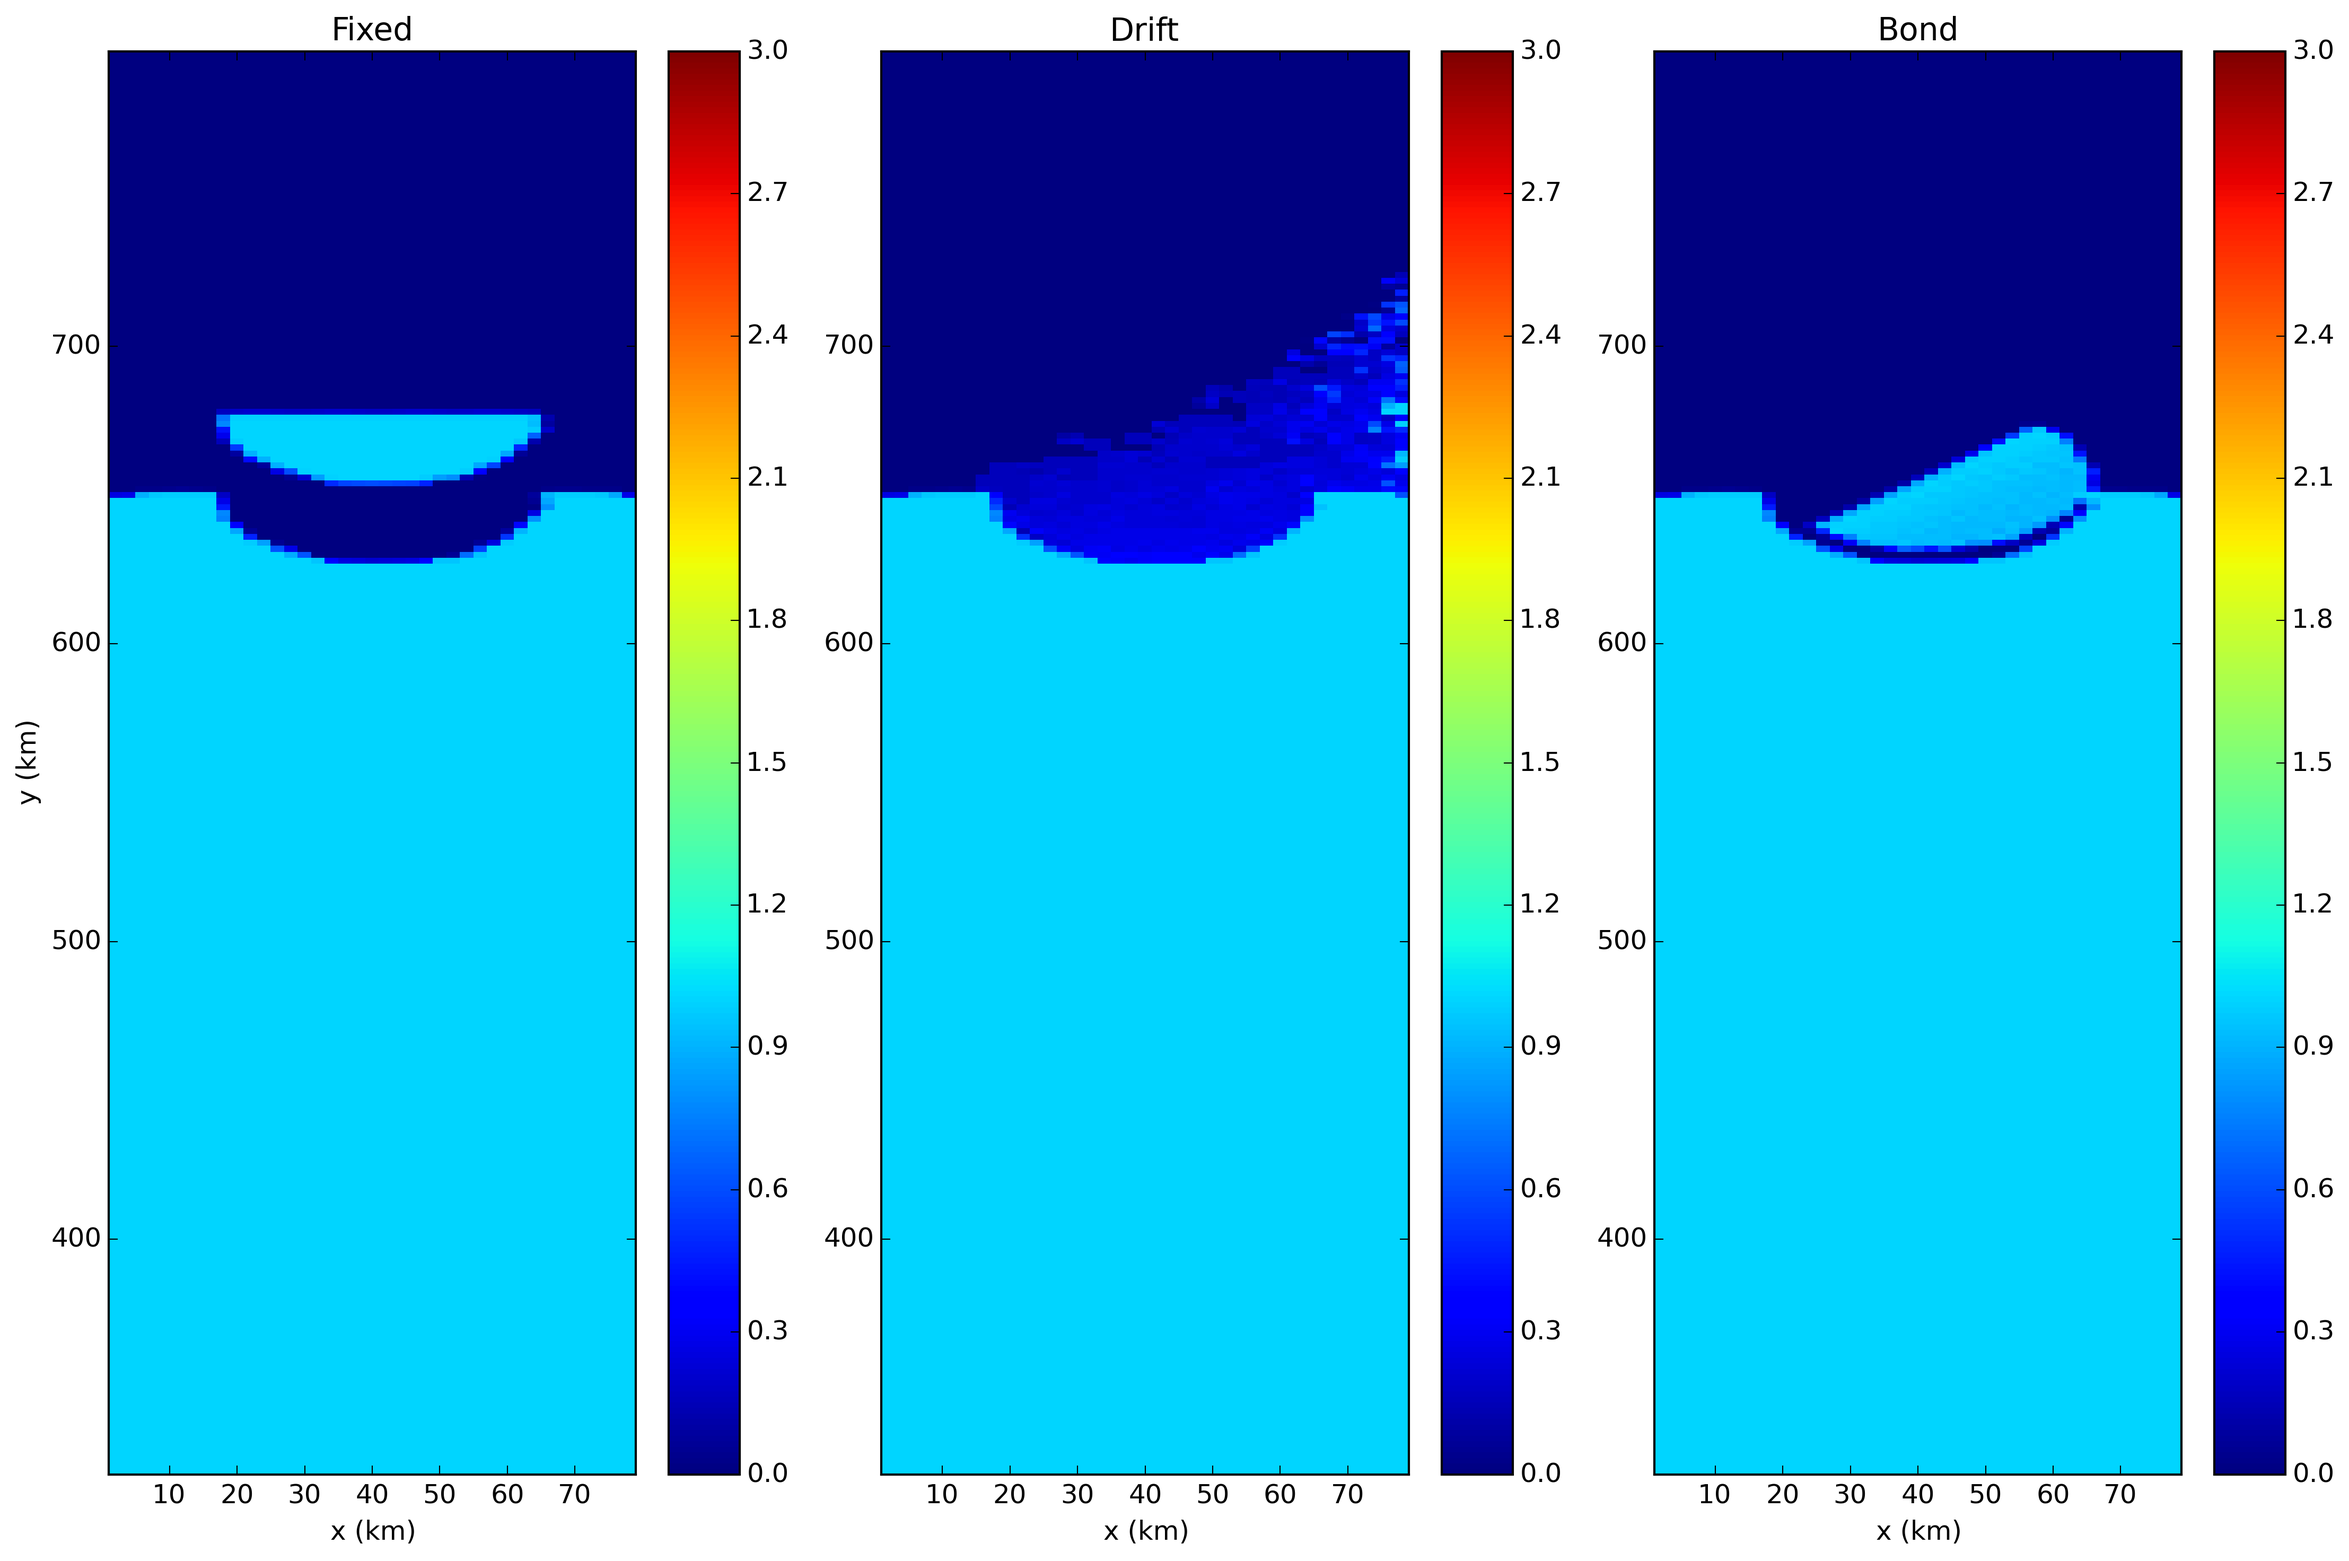
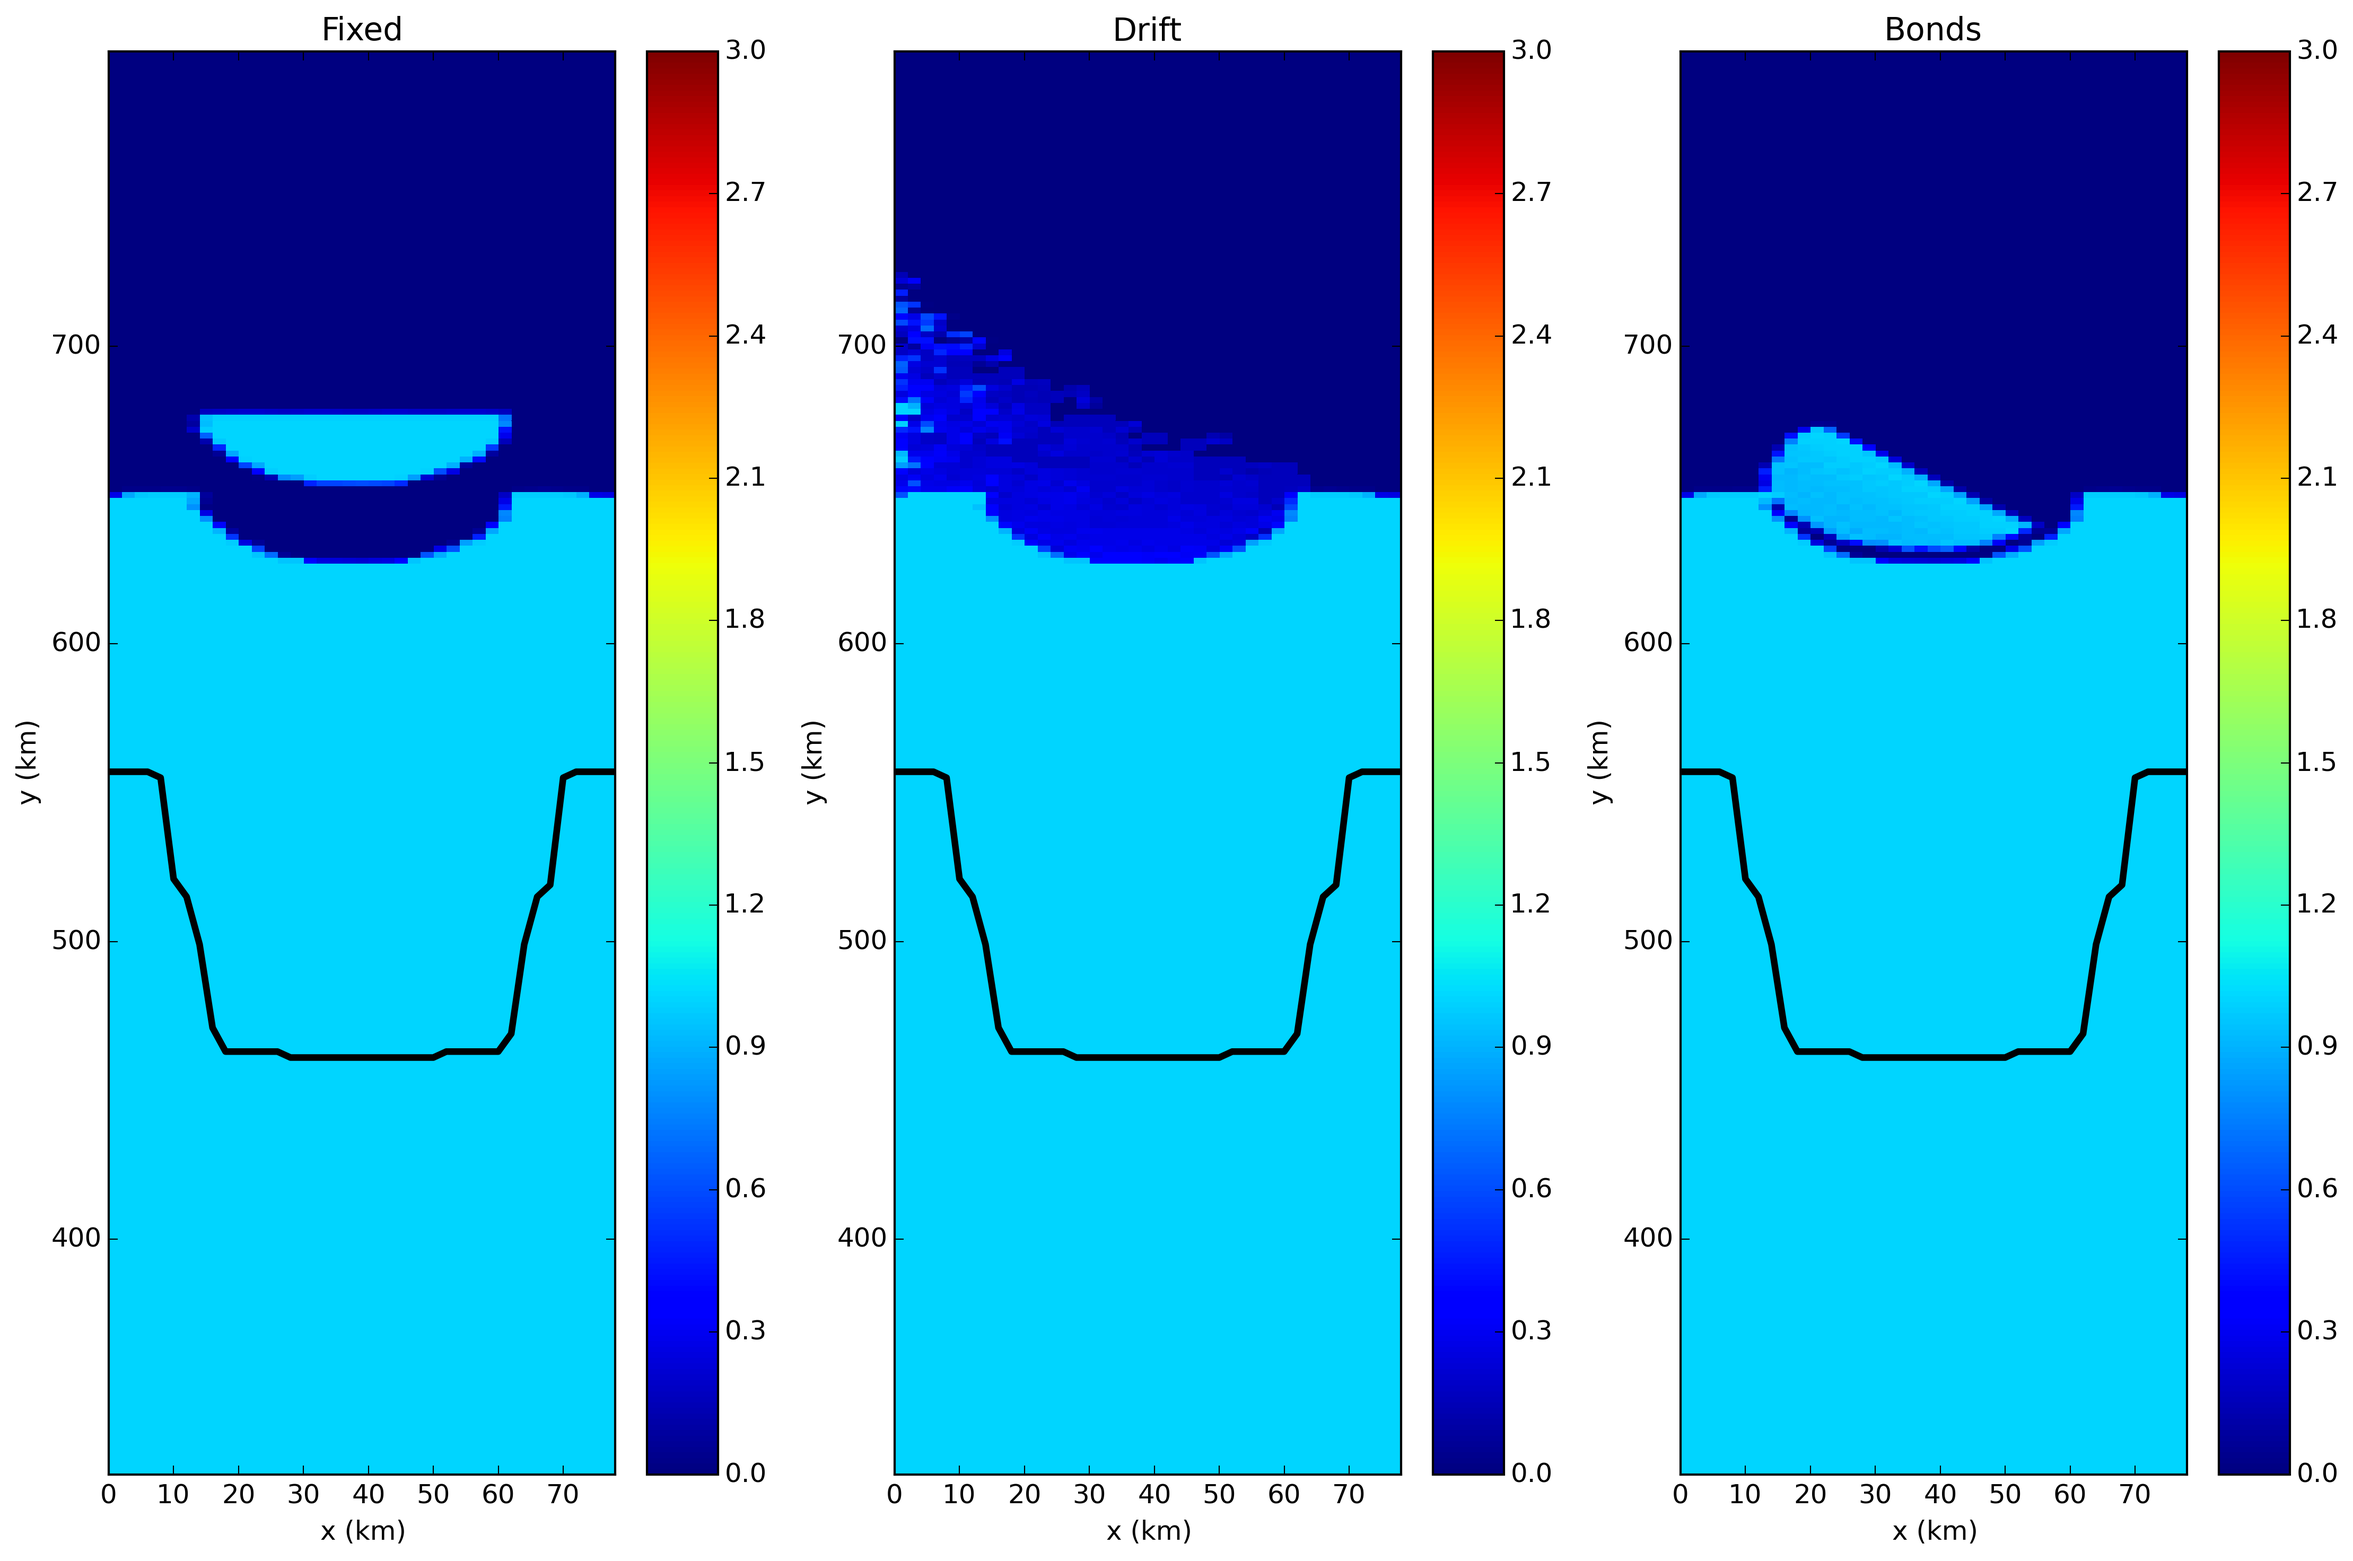
Updated figure. Added grouding line to fix_drift_bond, and make it move to the right

diff --git a/fixed_drift_bond.py b/fixed_drift_bond.py
@@ -32,8 +32,8 @@ def main():
 	rotated=True
 
 	#What to plot?
-	plot_horizontal_field=False
-	plot_temperature_cross_section=True
+	plot_horizontal_field=True
+	plot_temperature_cross_section=False
 
 
 	if (plot_horizontal_field is False) and  (plot_temperature_cross_section is False):
@@ -66,6 +66,8 @@ def main():
 
 	#Load static fields
 	(depth, shelf_area, ice_base, x,y, xvec, yvec)=load_static_variables(ocean_geometry_filename,ice_geometry_filename,ISOMIP_IC_filename,rotated=rotated)	
+	grounding_line=find_grounding_line(depth, shelf_area, ice_base, x,y, xvec, yvec)
+
 	
 	#Defining figure characteristics
 	fig=plt.figure(figsize=(15,10))
@@ -86,7 +88,7 @@ def main():
 
 		#field='sst' ;  vmin=0.0  ; vmax=3.0
 		#field='spread_area' ; vmin=0.0  ; vmax=3.0
-		#field='spread_mass' ; vmin=0.0  ; vmax=500000.
+		field='spread_mass' ; vmin=0.0  ; vmax=1000000.
 		#field='spread_uvel' ; vmin=-2.0  ; vmax=1.0
 
 		data1=load_and_compress_data(Fixed_iceberg_file,field=field,time_slice=time_slice,time_slice_num=-1,rotated=rotated)
@@ -98,10 +100,13 @@ def main():
 		#data3=mask_ocean(data3,shelf_area)
 		plt.subplot(1,3,1)
 		plot_data_field(data1,x,y,'',vmin,vmax,flipped,colorbar=True,cmap='jet',title='Fixed',xlabel='x (km)',ylabel='y (km)')	
+		plt.plot(xvec,grounding_line, linewidth=3.0,color='black')
 		plt.subplot(1,3,2)
 		plot_data_field(data2,x,y,'',vmin,vmax,flipped,colorbar=True,cmap='jet',title='Drift',xlabel='x (km)',ylabel='y (km)')	
+		plt.plot(xvec,grounding_line, linewidth=3.0,color='black')
 		plt.subplot(1,3,3)
 		plot_data_field(data3,x,y,'',vmin,vmax,flipped,colorbar=True,cmap='jet',title='Bonds',xlabel='x (km)',ylabel='y (km)')	
+		plt.plot(xvec,grounding_line, linewidth=3.0,color='black')
 
 
 	######################data###############################################################################################
